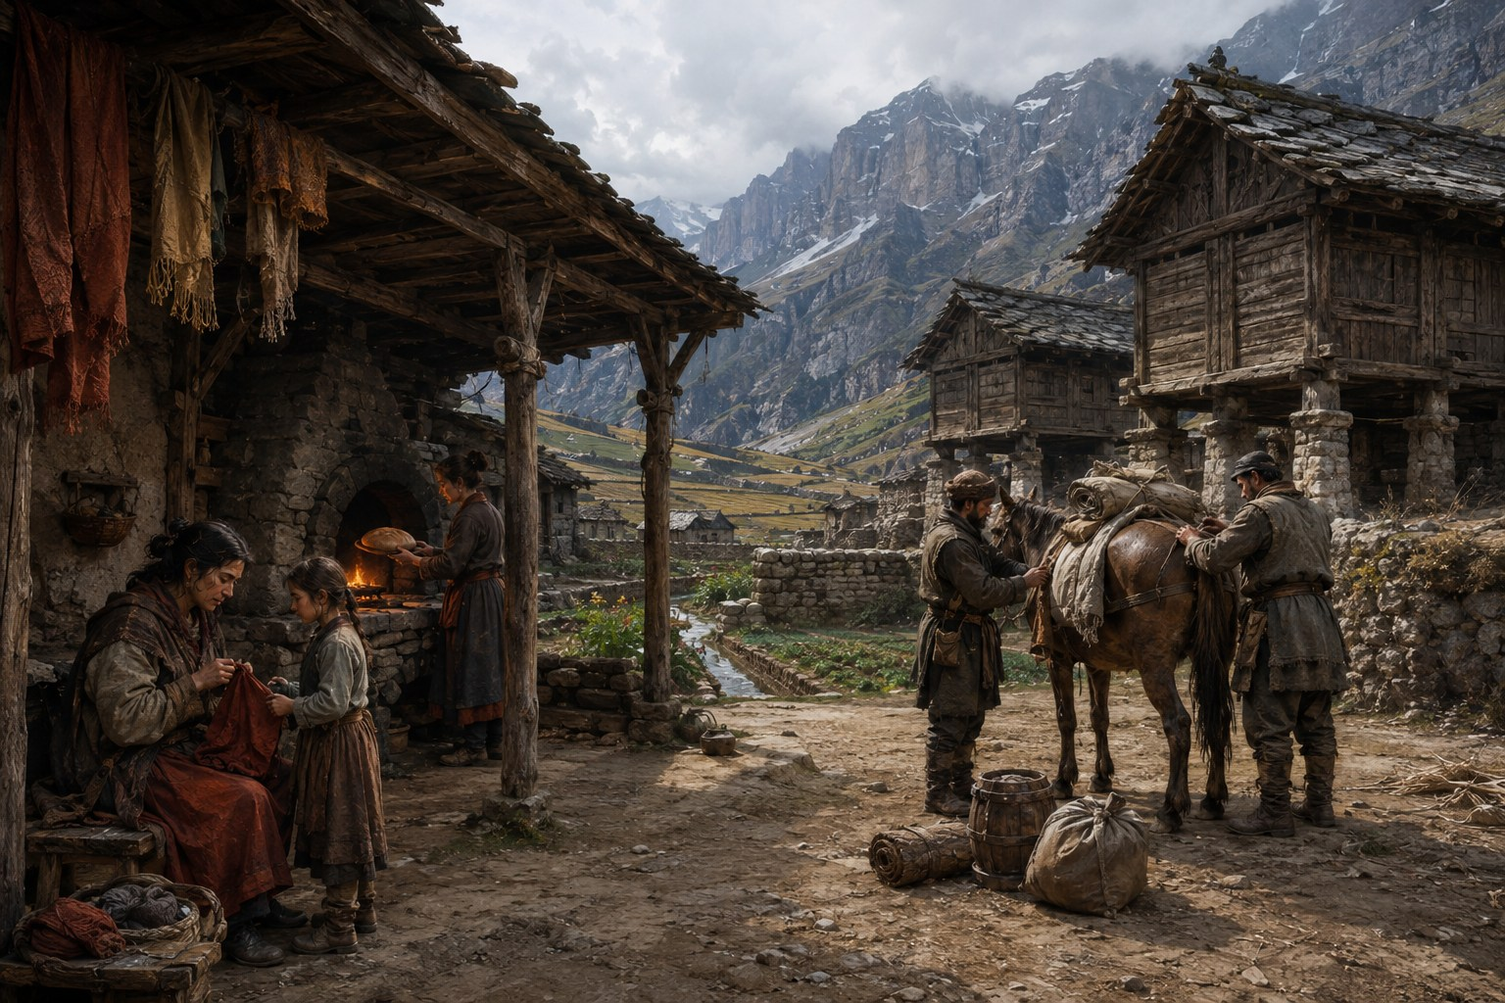
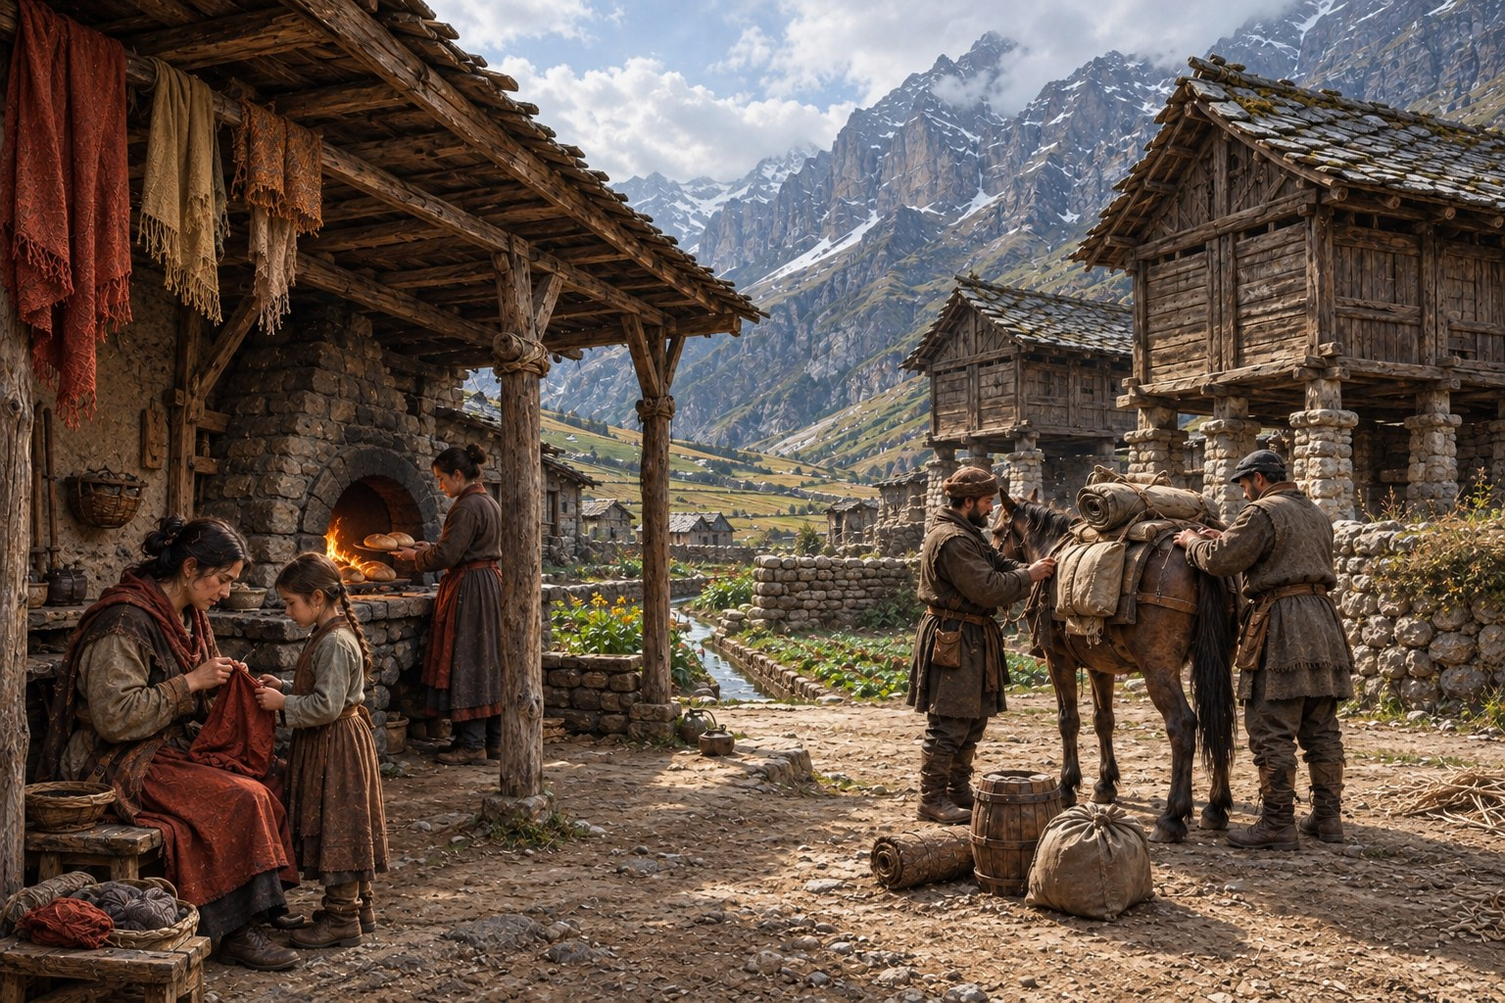
Refresh the six public website illustrations

diff --git a/docs/index.html b/docs/index.html
@@ -168,9 +168,9 @@
           <figure>
             <img
               src="assets/road-speech-warning.jpg"
-              alt="A soaked traveller hurriedly scratches a simple warning into the tunnel wall while companions hold a lamp."
-              width="1280"
-              height="853"
+              alt="Three soaked travellers pause in a flooded passage while one scratches a small warning into wet stone and another holds a flame lamp."
+              width="1536"
+              height="1024"
               loading="lazy"
             >
             <figcaption>A warning takes minutes. Permanence takes judgement.</figcaption>
@@ -179,8 +179,8 @@
             <img
               src="assets/road-speech-floodline.jpg"
               alt="A pale mineral flood line cuts across older marks on a dark tunnel wall, leaving only fragments above it."
-              width="1280"
-              height="853"
+              width="1536"
+              height="1024"
               loading="lazy"
             >
             <figcaption>History is rarely lost at once. It fades in pieces.</figcaption>
@@ -201,9 +201,9 @@
         <div class="story-card">
           <img
             src="assets/what-we-bring-home.jpg"
-            alt="A travel-worn pack, plain keepsakes and an unmarked map rest on a table beside a rain-streaked window."
-            width="1280"
-            height="853"
+            alt="A travel-worn open pack, an unlabelled map, mended cloth, a plain stone, greenery and a chipped metal cup rest on a table beside a rainy window."
+            width="1536"
+            height="1024"
             loading="lazy"
           >
           <div>

diff --git a/docs/styles.css b/docs/styles.css
@@ -448,6 +448,7 @@ blockquote {
 
 .image-pair img {
   width: 100%;
+  height: auto;
   aspect-ratio: 4 / 3;
   object-fit: cover;
 }

diff --git a/docs/assets/2026-09-12-artwork-refresh-prompts.md b/docs/assets/2026-09-12-artwork-refresh-prompts.md
@@ -1,0 +1,136 @@
+# Website artwork refresh prompts
+
+Created 12 September 2026 using OpenAI's built-in image-generation tool in
+Codex. The tool does not expose its underlying model identifier, so this
+record makes no model-version claim.
+
+These prompts remake the six presentation images used by the website. Each
+initial generation used the corresponding original generated image from
+repository commit `5d1ef76998b7dd1fa2946462179402d37d11c5b3` as its sole image
+reference. A directed follow-up, where recorded, used that first result as
+its reference. No third-party source image was used.
+
+All images are non-canon presentation artwork. Earlier prompts remain in
+[ARTWORK.md](ARTWORK.md), [edravoss-world-prompts.md](edravoss-world-prompts.md)
+and [world-life-prompts.md](world-life-prompts.md).
+
+## World hero
+
+Reference: `edravoss-world.jpg`. The initial result was selected.
+
+```text
+Use case: stylized-concept, image remake.
+Asset: final Edravoss website hero, one wide 16:9 landscape, ideally 2048 by 1152 or greater.
+Input image 1 is our existing original generated Edravoss world illustration. It is the composition and subject reference for a fresh rendering. Rebuild the scene with much more natural geology, confident painterly detail, believable scale and clear selective lighting. Do not merely sharpen the existing texture.
+
+Preserve the instantly readable solid-rock diagonal rising from the bottom-left edge to the top-right edge. The inhabited ABOVE is upper-left; the fully buried BELOW is lower-right. This is one imaginative geological cutaway, not a diptych. Keep the rock thick, uneven and naturally stratified rather than patterned with repeated shards or tiles.
+
+ABOVE: a broad sheltered farming basin within immense severe mountain ridges. One small cluster of modest stone/timber houses, dry raised grain stores, garden walls, irregular fields and irrigation streams. A few tiny rust-red household cloths. The settlement stays small in the landscape and practical, not a city of spires. Cool clear daylight reaches the green-brown basin. Local pale sky above the basin, harsh storm banks concentrated on distant peaks. No roads across the high mountains.
+
+BELOW: beneath a thick continuous rock ceiling, an enormous underground country opens into branching ledges, river reaches, high shelves and distant terraces fading into darkness. No sky, outdoor horizon or daylight opening anywhere below the diagonal. In the lower-right foreground, a compact ordinary pack caravan with loaded mules and practical clothed hauliers waits on a broad dry shelf by a worn plain waystone. Natural animal anatomy, credible loads, feed bundles, waterproof casks. A short fragment of old steps and retaining wall ends at a drowned lower crossing. Two small scouts with lamps examine a separate higher rough ledge ahead. The uncertain crossing, waiting caravan and immense cavern must read clearly. One tiny distant refuge lamp only. Water remains dark with subdued reflected lamplight, never glowing blue.
+
+Style: mature grounded painterly environmental fantasy realism, convincing irregular geology and tiny believable human work, rich material detail without oversharpened noise. Charcoal, slate blue, earth brown, muted moss and sparse warm amber. Natural spatial depth, enough local light to read the caravan while keeping the underground distance genuinely dark. The grandeur comes from geography.
+No text, lettering, labels, arrows, graphic border, watermark, heraldry, monsters, giant crystals, luminous plants, magical effects, active rockfall, continuous engineered highway, elaborate bridges or underground city. Preserve the existing public setting; all depicted people and places remain anonymous presentation art.
+```
+
+## Basin home
+
+Reference: `basin-home.jpg`. The initial result was selected.
+
+```text
+Use case: illustration-story, image remake.
+Asset: final Edravoss lore website illustration, horizontal 3:2, high detail, ideally 1536 by 1024 or greater.
+Input image 1 is our existing original generated basin-home artwork, used as the subject, composition and visual-world reference. Make a fresh fully rendered version with more natural faces, hands, fabric and building materials, clearer everyday gestures and believable light. Preserve the scene's ordinary lived-in warmth and the distribution of activities; this is not a new event or a different setting.
+
+Scene: a sheltered communal working yard in a remote farming basin enclosed by cold immense mountains. Maintain modest stone-and-timber houses and grain stores raised on short stone supports, a covered gallery, shared masonry bread oven, low garden walls, a narrow irrigation channel leading towards fields, and severe distant ridges. Make stone and wood naturally irregular and worn, but maintained. No luxurious buildings or city of towers.
+
+Foreground left: an adult sits under the gallery mending a rust-red sleeve with a small hand needle; a child carefully holds the cloth and looks at the work. Their hands and shared piece of fabric must be anatomically and physically plausible. A third adult tends fresh bread beside the communal oven just behind them. Centre-right: two ordinary hauliers stand on either side of one healthy sturdy pack mule, adjusting sensible balanced panniers, small rolled sacks and weatherproof bundles before departure. Complete mule anatomy, one head and four correctly attached legs, quiet stable stance on dry ground. A few small supply casks/feed bundles nearby. Mended rust-red and ochre household cloth hangs under the sheltered eaves.
+
+Light and composition: eye-level wide view, small unposed human gestures, generous central space connecting the domestic work to the loading activity. Keep every main head and activity inside the frame and legible on a smaller screen. Natural cool diffuse daylight reaches faces and textures; a restrained oven glow warms the gallery. The landscape remains cold and large, while the yard feels sheltered and inhabited.
+
+Style: accomplished mature painterly editorial fantasy realism, tactile wool and linen, weathered wood, natural layered stone, lifelike anonymous people. Quiet, warm and unsentimental. Charcoal, earth brown, muted moss green, rust-red cloth and restrained weathered gold. Avoid dull uniform mud, plastic skin, glossy CGI, oversharpened texture and theatrical posing.
+No modern clothing or equipment, readable text, signs, labels, lettering, logos, watermarks, heraldry, weapons display, armour, castles, magic effects, luminous plants, extra animals, named characters or franchise references. Original non-canon presentation art.
+```
+
+## Road Speech wall
+
+Reference: `road-speech-wall.jpg`. The initial result was selected.
+
+```text
+Use case: precise-object-edit.
+Asset type: finished horizontal 3:2 illustration for the Edravoss lore website; high detail, 1536 by 1024 or higher at the same ratio.
+Input image 1 is the existing road-speech-wall.jpg, the edit target and the reference for subject, composition, grounded painterly realism and palette. Fully re-render the illustration with richer natural material detail, retaining the broad wet stone wall, low raking lamplight, empty tunnel and restrained charcoal, peat-brown and weathered-gold palette. This is original non-canon presentation artwork.
+Scene and composition: an intimate eye-level view of a rough naturally weathered tunnel wall, uneven stone footings and a small strip of wet floor. Keep the important marks and the cancelled warning within the central area so a centred 4:3 website crop preserves them. Preserve the original scene, camera angle and physical scale, without adding subjects.
+Marks: several ages and methods must be visually distinct. A few recent charcoal direction strokes and small headcounts are black, smudged, irregular and hurried. Very shallow fresh scratches are pale and catch light only at their edges. Older deeply pecked records have irregular broken edges, softened by time, partly filled with silt or mineral crust, with missing sections. One modest older warning cluster has exactly one diagonal cancellation stroke through it, with a smaller fresh account and a separate tiny witness mark immediately beside it. Make the single cancellation clear but understated, not a giant cross. The wall is sparse in some places and crowded around one small route junction indication; no uniform rows. A low mineral waterline intersects older marks and leaves fragments.
+Lighting and materials: plausible warm light rakes the wall from an unseen low lamp to the left, with deep but readable shadows. Wet stone has irregular layers, pitted and fractured areas, thin rivulets, silt and patchy mineral stains; use restrained highlights, never metallic sparkle or repeating noise. Grounded painterly editorial fantasy realism with tangible surfaces, not a decorative mural.
+Constraints: keep the wall, empty setting, viewpoint, earth palette and restrained mood. Marks are crude practical counts and direction strokes, not a consistent invented alphabet. No readable words, modern writing, neat glyph rows, ornate runes, giant X, safety icon, polished plaque, people, monsters, magic, glowing marks, new objects, logos, watermarks or franchise references.
+```
+
+## Road Speech floodline
+
+Reference: `road-speech-floodline.jpg`. The initial result was selected.
+
+```text
+Use case: precise-object-edit.
+Asset type: finished horizontal 3:2 illustration for the Edravoss lore website; high detail, 1536 by 1024 or higher at the same ratio.
+Input image 1 is the existing road-speech-floodline.jpg, the edit target and the reference for subject, viewpoint, composition, grounded painterly realism and cold earth palette. Fully re-render the illustration with greater natural texture and geological variation while preserving the empty passage, broad marked wall, pale mineral high-water band, thin stream, flood debris and distant cold daylight. This is original non-canon presentation artwork.
+Scene and composition: the viewer stands in an empty old tunnel after repeated floods. The broad rough wall recedes towards a distant small daylight opening on the left. A pale irregular mineral high-water band runs across the dark wall. Most old shallow scratches and charcoal marks below it have been erased, filled with silt or covered in patchy crust. Above the band, only scattered broken fragments of crooked counts and practical route warnings survive, insufficient to reconstruct a complete message. Keep the surviving fragments and the clearest mineral band centrally placed for the site's centred 4:3 crop, while preserving the original perspective and composition.
+Materials and lighting: believable stratified and fractured stone, worn differently by running water, with varied dark wet patches, subtle mineral deposits, muddy footing, small stones, tangled plain flood debris and a thin shallow stream on the floor. Avoid uniform pebble texture. Distant cold daylight grazes the wall and glances off nearby water; physically plausible falloff, deep shadow, no evenly lit cave. Painterly editorial fantasy realism, sombre and archaeological, charcoal and peat-brown stone with pale grey chalky deposits, restrained reflections and clear material separation.
+Constraints: preserve the empty passage, distant opening, flood evidence, original grounded mood and broad composition. The marks are irregular fragmentary tool scratches, not neat decorative glyphs or a complete alphabet. No readable modern text, tidy runes, people, animals, monsters, skeletons, new narrative objects, magic, glowing marks, crystals, logos, watermark or franchise references.
+```
+
+## Road Speech warning
+
+Reference: `road-speech-warning.jpg`. The initial result was replaced by the selected follow-up correction below.
+
+### Initial re-render
+
+```text
+Use case: style-transfer
+Asset type: Edravoss lore website illustration, horizontal 3:2 landscape, 1536 by 1024 pixels or comparable high resolution.
+Input image 1: edit target and reference for the grounded tunnel, soaked travel clothing, practical packs, sombre mood and restrained palette. Fully re-render the artwork with improved anatomy, fabric and light. The exact faces and exact positions are not invariants.
+Primary request: remake this scene as restrained painterly editorial fantasy realism. Inside a cramped natural-rock flooded tunnel, exactly THREE anonymous ordinary exhausted travellers stand in knee-deep dark water. The foreground traveller braces close to the wall and uses a small practical hand tool in a clearly visible anatomically plausible right hand to hurriedly scratch one tiny shallow rough warning into the wet stone. The marks are incidental crooked partial scratches only a few centimetres long, light and difficult to see, not grand symbols. A second traveller immediately beside them holds a plain practical oil-flame lamp close enough to illuminate the working hand and scratches. The third stands just behind, keeping watch down the tunnel. Exactly three people, no fourth silhouette or distant person.
+Composition: all three travellers together around the middle of the frame; foreground working hand, handtool, tiny marks and flame lamp all comfortably inside the central 4:3 crop-safe rectangle. Show enough legs and water surface to read knee-deep water. Candid human urgency, huddled working postures, no posing. Do not arrange them like a group portrait. Keep outer frame edges mostly wet stone and shadow.
+Light and materials: practical warm flame light falling naturally on fingers, worn wool, waxed fabric, scuffed leather and fractured mineral stone; cool reflected water light. Improve low-light readability with visible muted shadow detail. Peat brown, charcoal, muted moss, restrained weathered gold. Natural weary faces and believable anatomy. Fine painterly texture in the rendering, restrained atmosphere, hand-crafted editorial illustration feel, no slick hyperreal gloss.
+Invariants: ordinary anonymous travellers, flooded natural tunnel, a hurried difficult scratch-warning task, practical lamp, humble worn packs and clothing, grounded scale and muted palette. Follow the stated count of three even though the old reference includes extra background silhouettes. No readable text, modern letters, deep carved runes, decorative symbols, magical glow, treasure, weapons, armour, heroes, monsters, logos or watermark. Output one finished image only.
+```
+
+### Selected correction
+
+Reference: the initial warning re-render above. This follow-up removed the oversized dark marks while preserving the three travellers and composition.
+
+```text
+Use case: precise-object-edit
+Asset type: Edravoss lore website illustration, preserve this horizontal 3:2 image at 1536 by 1024 or comparable resolution.
+Input image 1 is the edit target: the newly re-rendered illustration with exactly three travellers in a flooded tunnel.
+Make ONE focused correction only: replace the dark large angular rune-like marks beside the foreground traveller's right hand with a tiny cluster of barely started shallow scratches. The scratch cluster should be less than half the width of that person's thumb, confined immediately at the tool tip; two or three short uneven pale scuffs on wet natural stone, no complete geometric shape and no dark pigment. Restore natural unmarked wet rock where the current large dark marks extend above and below the tiny contact point. This is a hasty warning difficult to scratch in hard stone, not a carved sign or emblem.
+Preserve everything else exactly: all three people, their anatomy, clothing, packs, postures, tool, hand position, lamp, water, rock, composition and improved warm-versus-cool lighting. Keep exactly three people. No text, runes, symbols, logos, watermark or magical glow. Output one finished image.
+```
+
+## What we bring home
+
+Reference: `what-we-bring-home.jpg`. The initial result was replaced by the selected follow-up correction below.
+
+### Initial re-render
+
+```text
+Use case: style-transfer
+Asset type: Edravoss lore website still-life, horizontal 3:2 landscape, 1536 by 1024 pixels or comparable high resolution.
+Input image 1: edit target and reference for the ordinary keepsakes, worn pack, rough wooden table, rainy window and restrained warm-versus-cold palette. Fully re-render with better material texture and light; exact object spacing is not an invariant and must be tightened for the card crop.
+Primary request: remake this intimate still-life as restrained painterly editorial fantasy realism. A practical travel-worn open pack holds mended cloth. Close together beside and just before its opening are a partly folded hand-drawn map with absolutely no readable labels, one small plain smooth stone, a sprig of hardy muted green foliage and a plain chipped metal cup. Everything rests on rough naturally worn wooden boards beside a rain-streaked window. These are humble things someone chose to carry home, never treasure. A small plain practical flame lamp may occupy the close background as in the reference, providing warm illumination; keep it subordinate to the keepsakes. No people visible.
+Composition: tightly group all the requested keepsakes and open pack within the middle 55 percent of the image width, filling the central area strongly; map, stone, greenery, cloth and cup remain visible when this horizontal image is cropped to a narrow portrait story card. Pack slightly behind, map and keepsakes close at its mouth, cup close beside it rather than at frame edge. Leave outer edges largely rough tabletop and dim room. Intimate close viewpoint, no excessive foreground empty space. Rainy window visible behind the object group, softly out of focus.
+Light and materials: natural warm flame light against cool grey rainy daylight, legible midtones in pack interior and cloth folds, charcoal, peat brown, muted moss and weathered gold with one restrained ember accent. Real mending stitches, coarse wool, worn practical leather or waxed fabric, imperfect wood grain, creased map paper, weathered plain metal and soft rain on glass. Fine painterly surface and restrained depth, quietly observed editorial illustration, no plastic gloss or artificial studio shine.
+Invariants: open practical worn pack, unlabeled folded map, mended cloth, one plain stone, hardy greenery, chipped plain metal cup, rough wooden table, rainy window and intimate warm flame light versus cold rain. No treasure, jewellery, coins, gems, ornate weapons, crowns, books, extra keepsakes, identifiable characters, text, map labels, symbols, runes, logos, watermarks or magical glow. Output one finished image only.
+```
+
+### Selected correction
+
+Reference: the initial still-life re-render above. This follow-up brought the cup and greenery into the central crop while preserving the keepsakes and room.
+
+```text
+Use case: precise-object-edit
+Asset type: Edravoss lore website illustration, preserve horizontal 3:2 at 1536 by 1024 or comparable resolution.
+Input image 1 is the edit target: the newly generated still-life.
+Make one focused composition correction for a narrow website-card crop: relocate the SAME chipped plain metal cup and the SAME single sprig of greenery closer into the middle of the frame. The cup should sit on the map immediately in front of the pack's right opening, its centre at about 59 percent of total image width, and its full silhouette contained between 51 and 67 percent of image width. Place the same greenery low on the map in front of that cup, its entire outline between 46 and 70 percent of image width, angled gently across the front of the cup toward the stone. Keep the plain stone visible in front of the cup. No duplicate cup or additional sprig. Restore bare wooden table in their former positions on the right.
+Preserve the current open pack and mended cloth, map and plain stone, rain-streaked window, subordinate flame lamp, high-quality realistic materials, restrained painterly rendering, light and colours. Keep all other composition and objects as close as possible. The purpose is to have pack, cloth, map, stone, greenery and full cup recognisable in the central narrow portrait crop. No new objects, people, text, runes, treasure, weapons, logos, watermark or magic. Output one finished image only.
+```

diff --git a/docs/assets/ARTWORK.md b/docs/assets/ARTWORK.md
@@ -8,8 +8,40 @@ support the tone and ideas of the setting; exact depicted people, places and
 glyph shapes do not by themselves establish canon.
 
 The images were generated with OpenAI's built-in image-generation tool in
-August and September 2026. Their use follows the repository's `COPYRIGHT.md`.
+August and September 2026, with the current website set remade on 12 September
+2026. Their use follows the repository's `COPYRIGHT.md`.
 No public reuse licence is granted by their presence in the repository.
+
+## Current website artwork review
+
+On 12 September 2026, Barry Rodick requested a remake of the website images
+and selected built-in generation. The six images currently used by the site
+were remade from their existing original generated counterparts. The tool
+does not expose its underlying model identifier; no exact model version is
+claimed for these outputs.
+
+The refresh covers `edravoss-world.jpg`, `basin-home.jpg`,
+`road-speech-wall.jpg`, `road-speech-warning.jpg`,
+`road-speech-floodline.jpg` and `what-we-bring-home.jpg`.
+The retained `edravoss-road.jpg` is not displayed by the current site and was
+not part of this refresh.
+
+The selected images received a visual review for consistency with the public
+setting, believable anatomy and materials, legible subjects, and the site's
+cropping. The original generated references and new outputs contain no
+third-party source artwork. Rights remain governed by `COPYRIGHT.md`, and all
+depicted people, places and marks remain non-canon presentation details.
+
+The original PNG outputs were exported to JPEG for the website, without
+additional creative edits. The prompt record includes the initial generations
+and the directed corrections to the traveller's warning and the still-life.
+Publication follows the requested website update through the repository's
+reviewed main branch.
+
+Exact refresh prompts:
+[`2026-09-12-artwork-refresh-prompts.md`](2026-09-12-artwork-refresh-prompts.md).
+The entries below retain the earlier generation records; their alt text
+describes the current images.
 
 ## `edravoss-road.jpg`
 
@@ -21,7 +53,7 @@ Prompt:
 
 ## `what-we-bring-home.jpg`
 
-Alt text: A travel-worn pack, plain keepsakes and an unmarked map rest on a table beside a rain-streaked window.
+Alt text: A travel-worn open pack, an unlabelled map, mended cloth, a plain stone, greenery and a chipped metal cup rest on a table beside a rainy window.
 
 Prompt:
 
@@ -61,7 +93,7 @@ Prompt:
 
 ## `road-speech-warning.jpg`
 
-Alt text: A soaked traveller hurriedly scratches a simple warning into the tunnel wall while companions hold a lamp.
+Alt text: Three soaked travellers pause in a flooded passage while one scratches a small warning into wet stone and another holds a flame lamp.
 
 Prompt:
 
